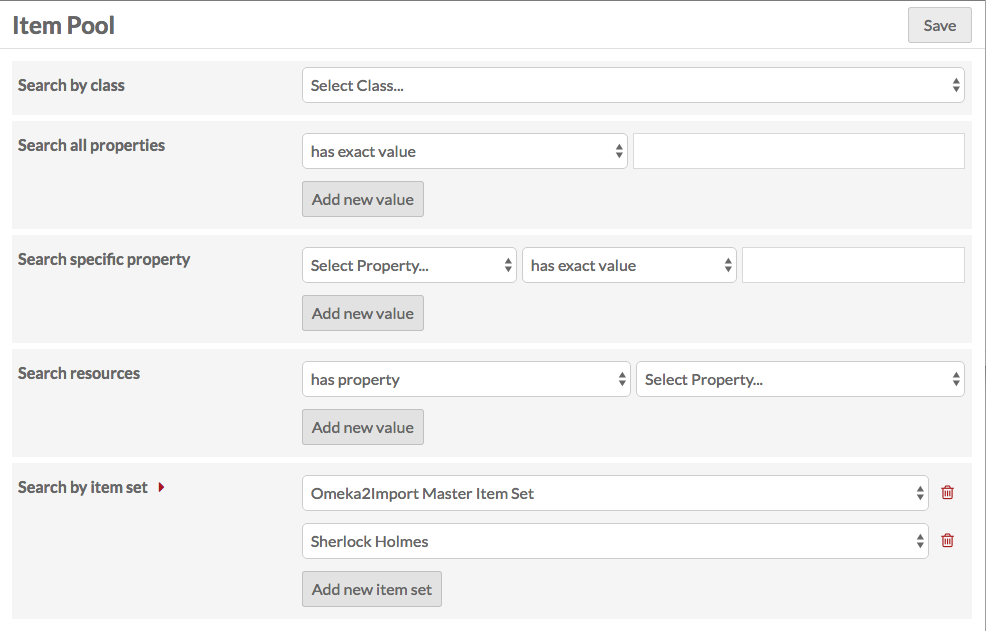
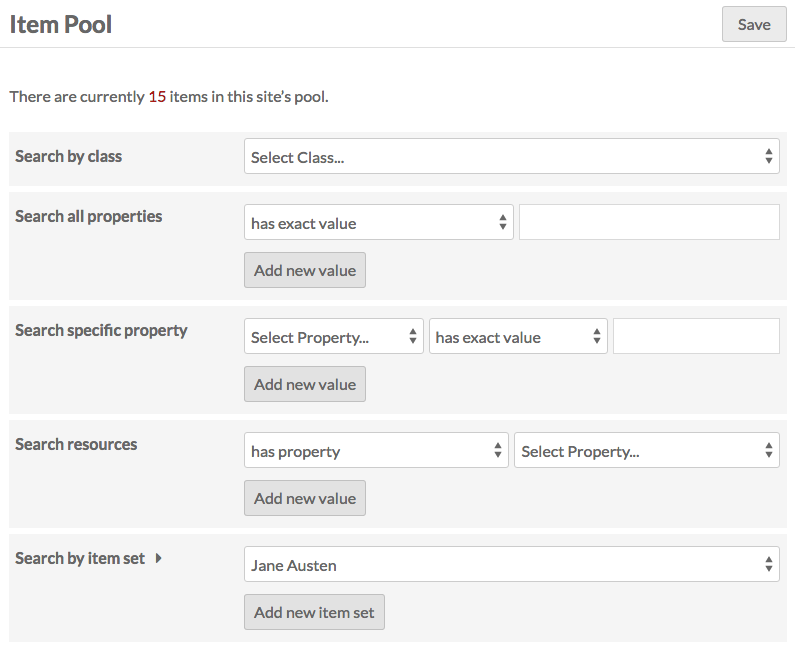
updates to Item Pool

diff --git a/sites/site_itempool.md b/sites/site_itempool.md
@@ -6,7 +6,7 @@ The Item Pool determines what automatically appears in the resource selection op
 
 ![The Item Pool tab on site settings has multiple search options, as described below](../sites/sitesfiles/sites_itempool.png)
 
-Note that the search options for the Item Pool build on each other. Every search you add further narrows what is returned for the pool.
+Note that the search options for the Item Pool work together to build an overall search, not independently. Every search you add further narrows what is returned for the pool.
 
 The settings in the Item Pool tab allow you to set the parameters for the pool. You can use one or more of the search options:
 * *Search by class*: search by resource Class. 
@@ -14,3 +14,11 @@ The settings in the Item Pool tab allow you to set the parameters for the pool. 
 * *Search specific property*: search for words or phrases within a specific property. Select the property from the drop down menu, and then select from: as exact value, does not have exact value, contains value, or does not contain value. Use the *Add new value* to create additional search criteria.
 * *Search resources*: search for resources which either *has property* or *does not have property* for a specific resource class.
 * *Search by item set*: include all items within a specific item set.
+
+If you have already set terms for an item pool, the Item Pool page will display a message above the table of search options, with the number of items in the current site pool. The number functions as a link which takes you to an admin-side browse of all the items in the site's item pool. *Note that clicking the link takes you outside of the Sites admin*
+
+![arrow points to the link in the current items sentence](../sites/sitesfiles/sites_ipn.png)
+
+The image below shows how those items are displayed; the name of the site is displayed just under the header for items. Note that we are back in the Items section of the Omeka S install admin, rather than the Site admin. 
+
+![items in site Jane Austen](../sites/sitesfiles/sites_itemsinpool.png)
